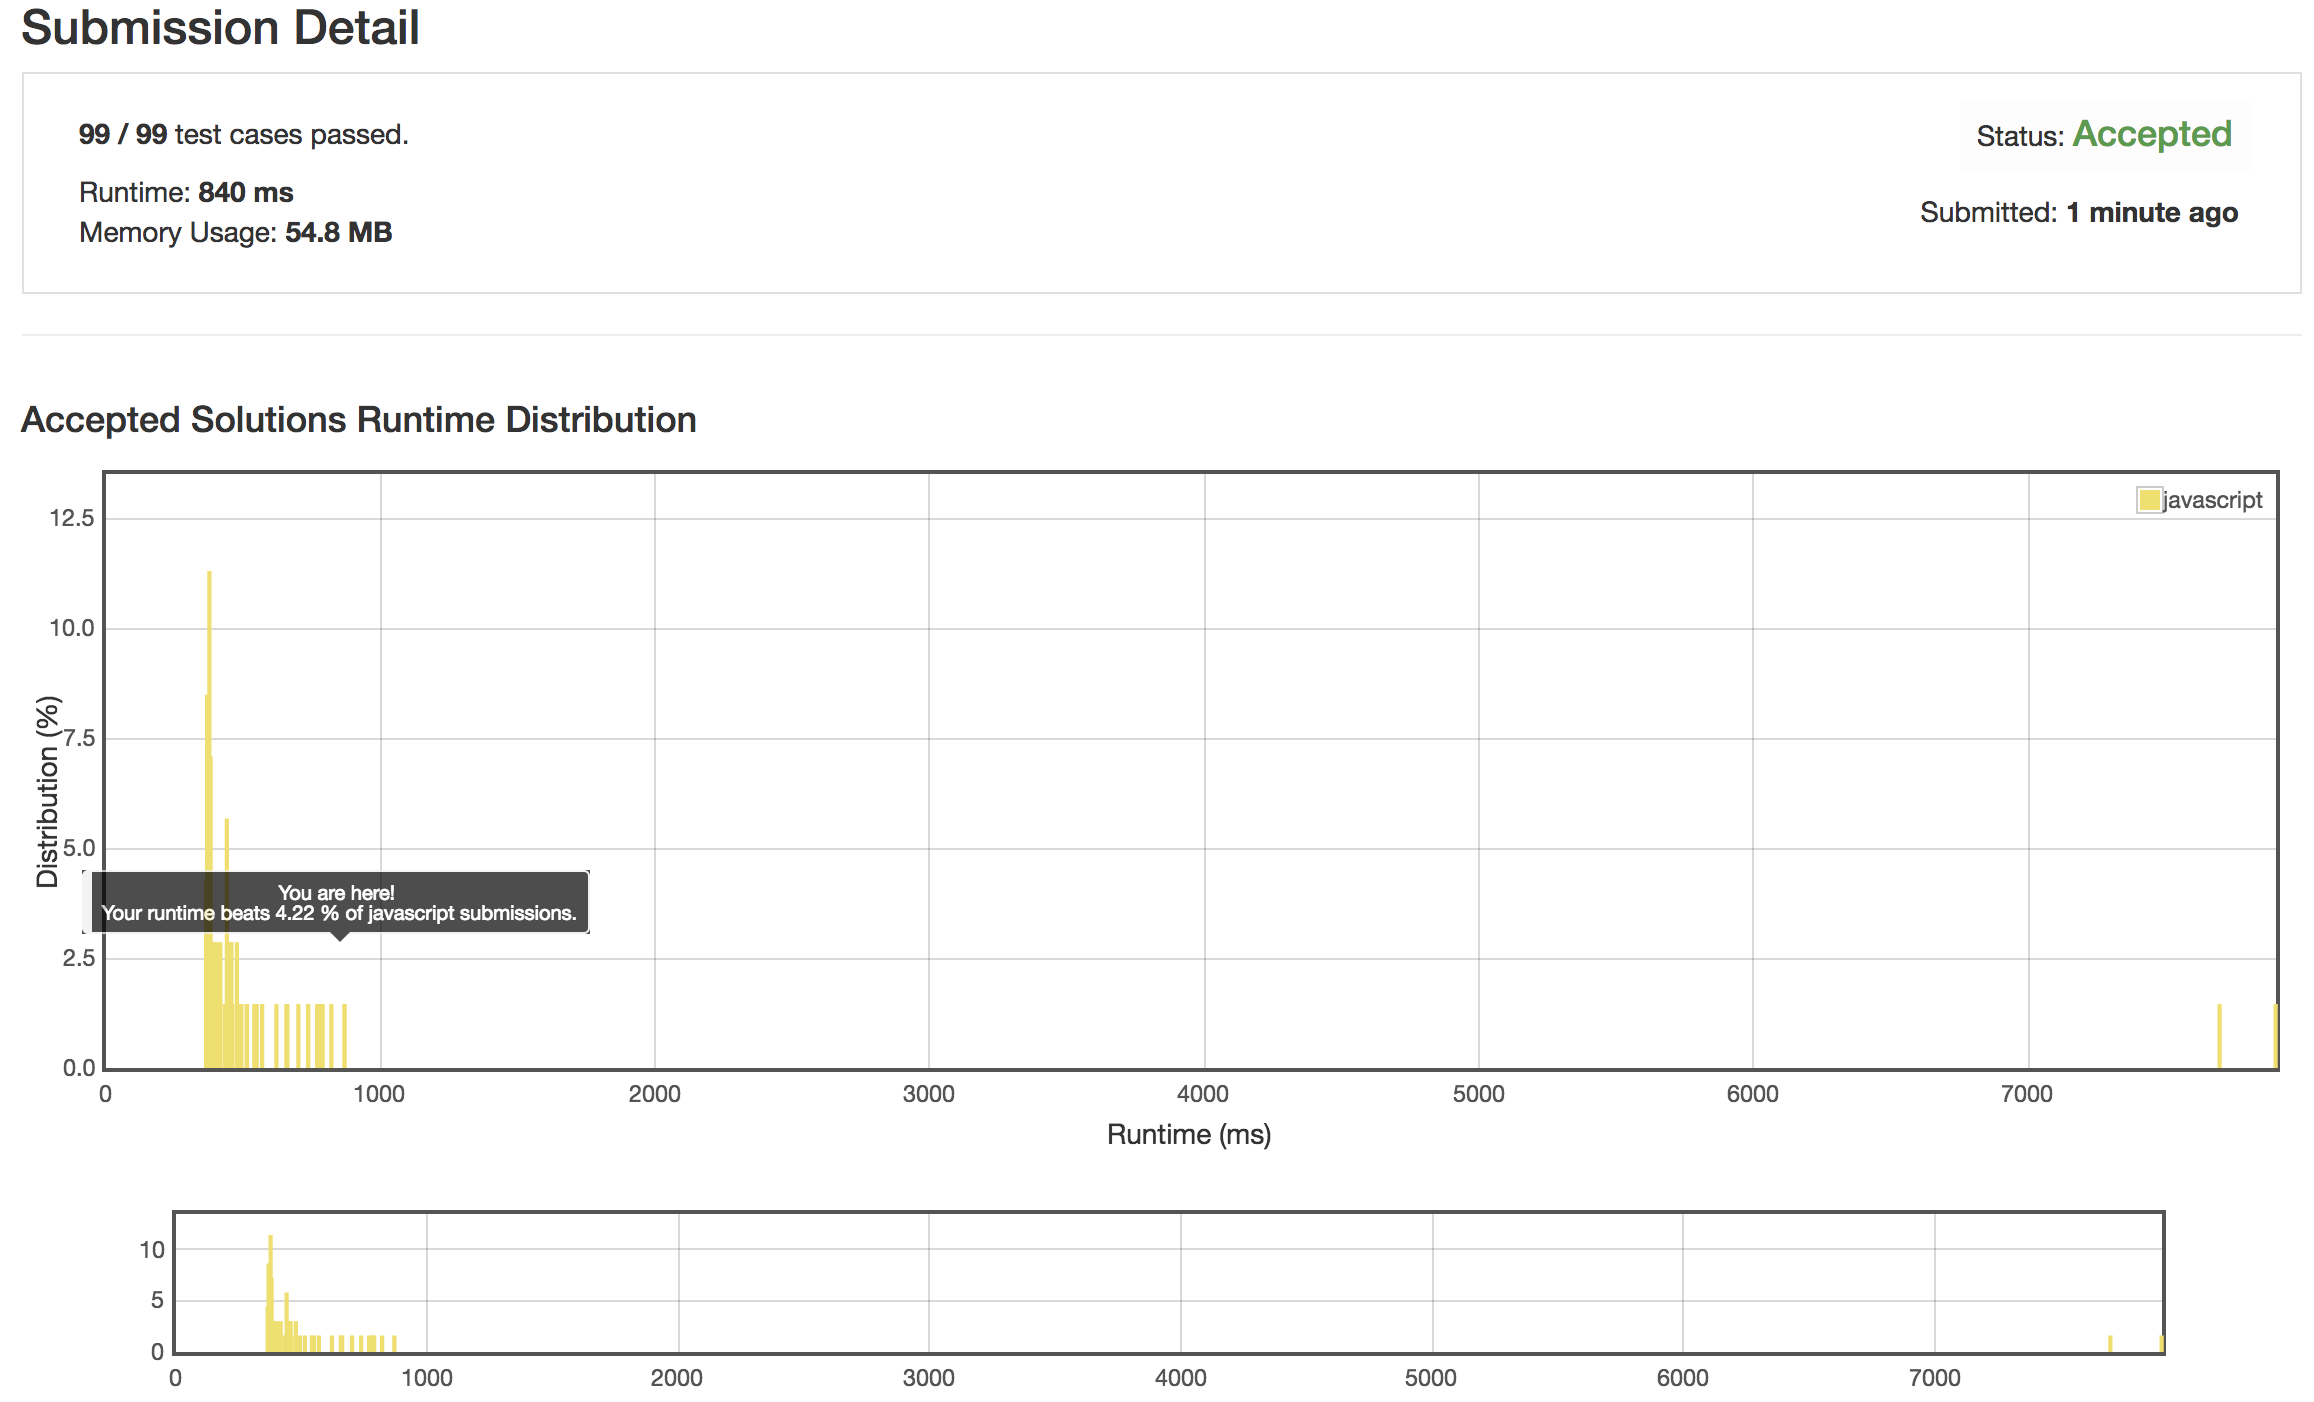
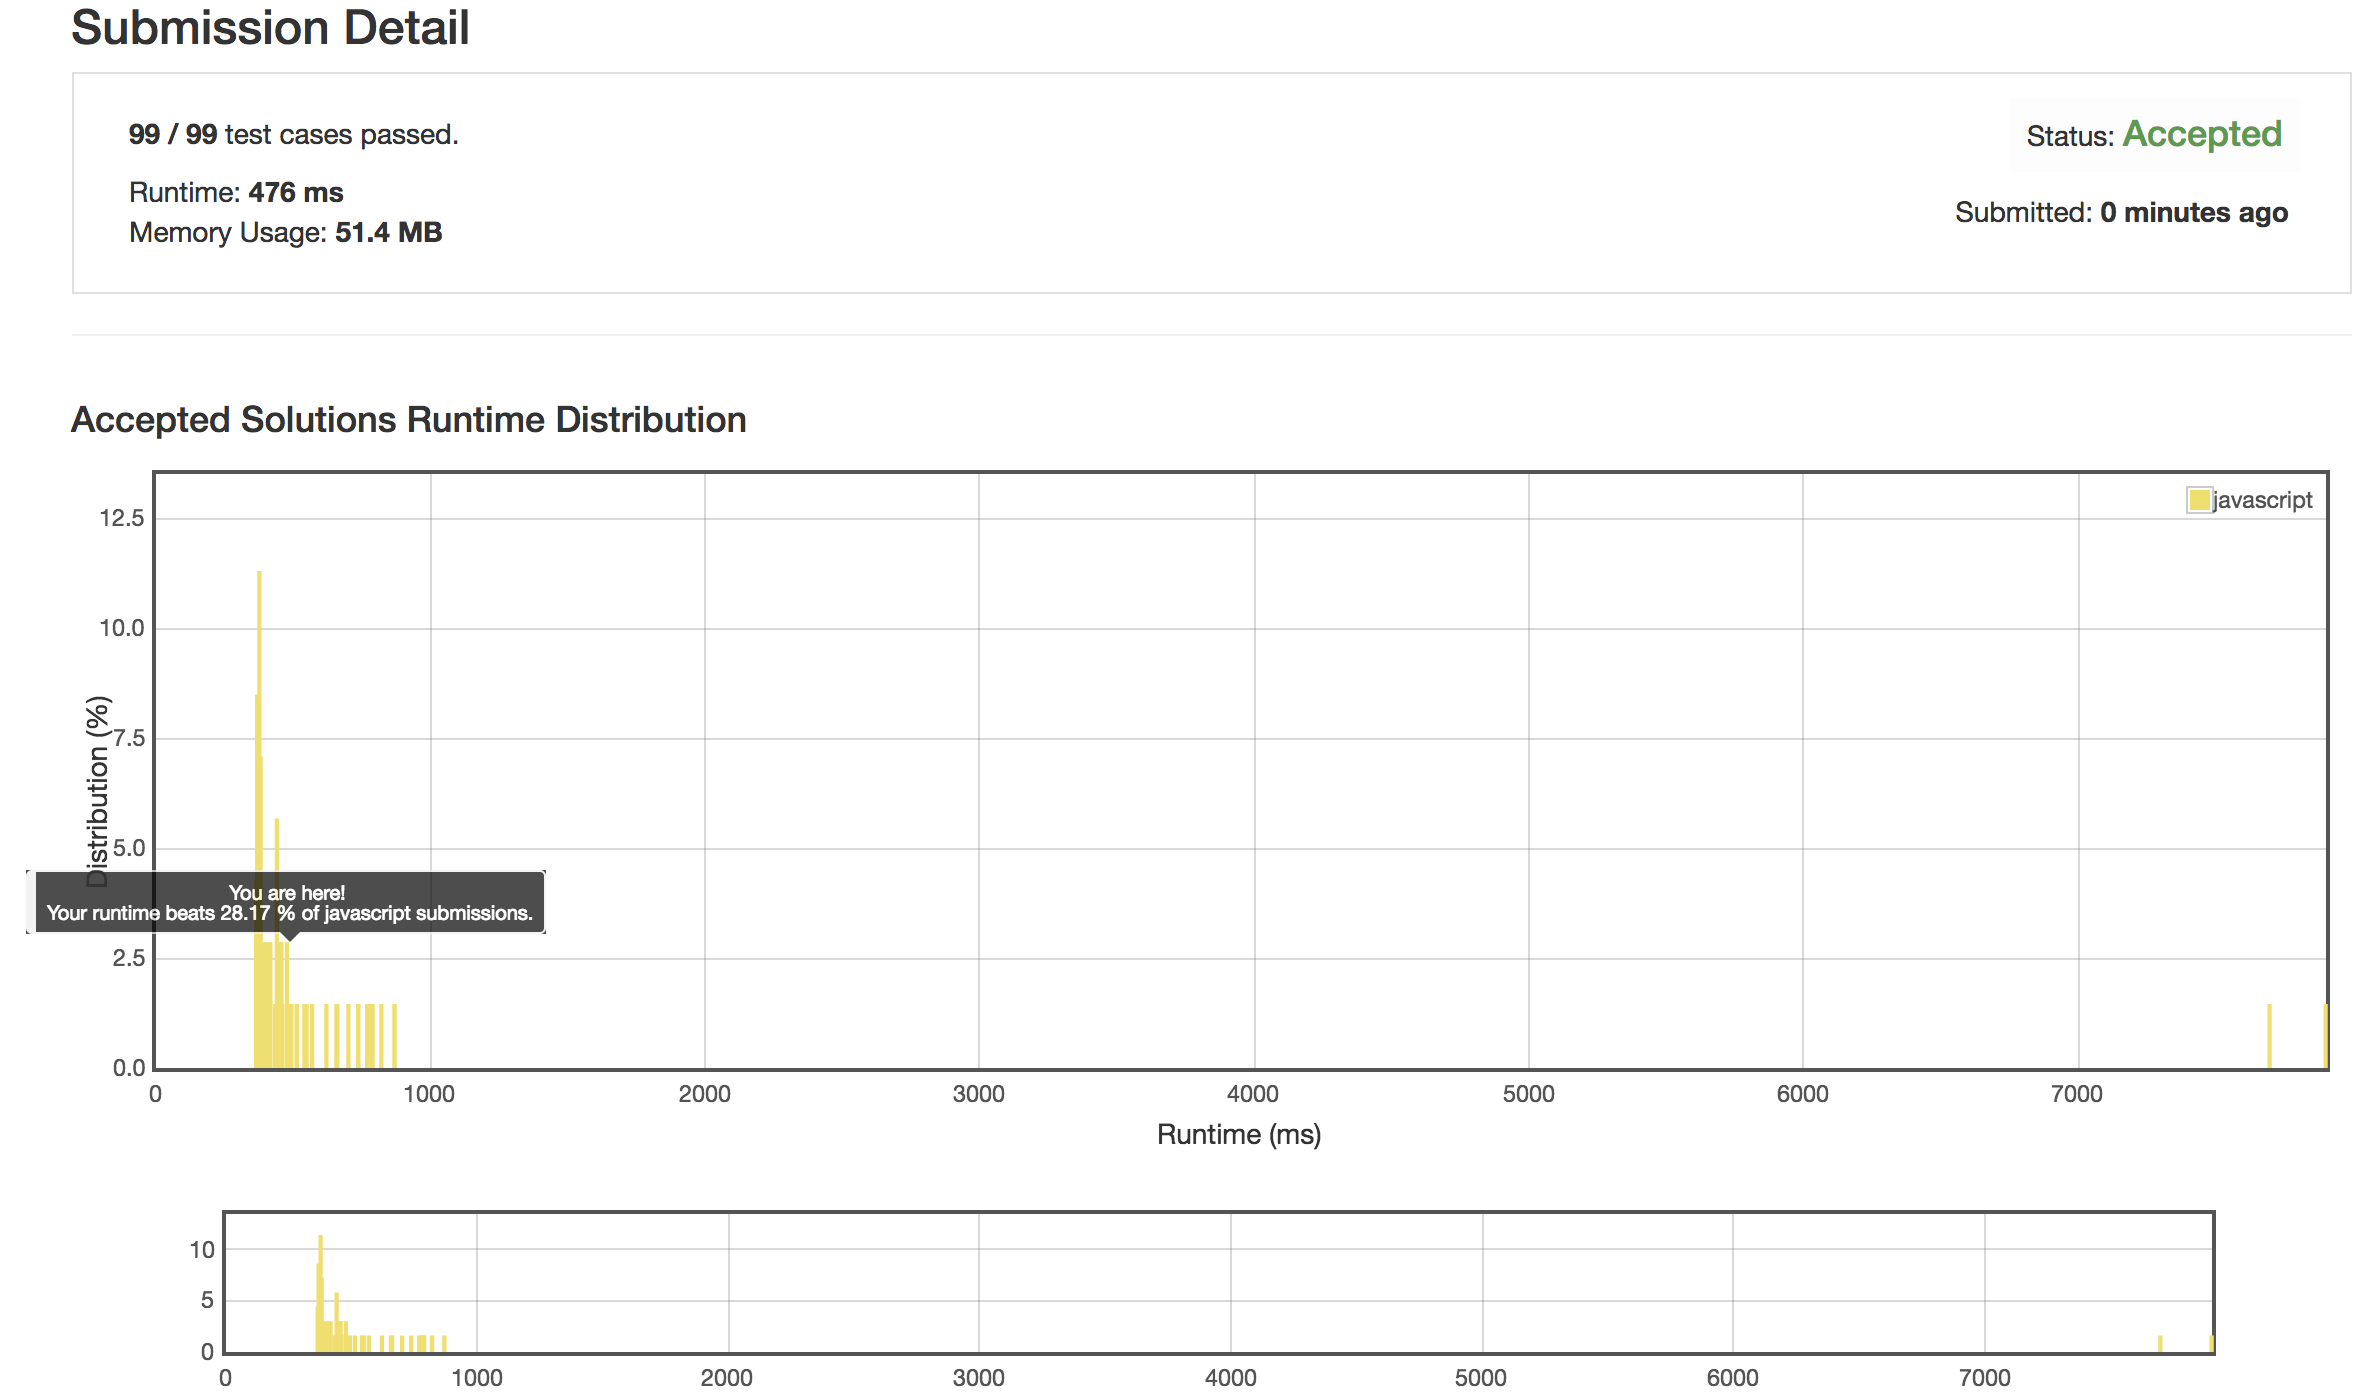
UPDATE stack logic to improve runtime complexity

diff --git a/medium/online-stock-span/onlineStockSpan.js b/medium/online-stock-span/onlineStockSpan.js
@@ -1,7 +1,7 @@
 
 var StockSpanner = function() {
     this.history = [];
-    this.day = -1;
+    this.day = 0;
 };
 
 /** 
@@ -9,14 +9,29 @@ var StockSpanner = function() {
  * @return {number}
  */
 StockSpanner.prototype.next = function(price) {
-    let res = 1;
-    
-    for (let i = this.day; i >= 0 && this.history[i] <= price; i--) {
-        res++;
-    }
+    let res;
     
     this.day++;
-    this.history[this.day] = price;
+    if (this.history.length > 0) {
+        let curr;
+        do {
+            curr = this.history.pop();
+        } while (this.history.length > 0 && curr.price <= price);
+        
+        if (curr.price > price) {
+            // There's a highest price before
+            this.history.push(curr);
+            res = this.day - curr.day;
+        } else {
+            // This is the highest price ever reached
+            res = this.day;
+        }
+    } else {
+        // First price ever added
+        res = 1;
+    }
+        
+    this.history.push({ price: price, day: this.day });
     
     return res;
 };

diff --git a/README.md b/README.md
@@ -39,4 +39,4 @@ So far:
 | [Partition List](medium/partition-list) | Medium | 100% | 41.04% | 6th Feb 2019 |
 | [Remove Linked List Elements](easy/remove-linked-list-elements) | Easy | 100% | 22.13% | 7th Feb 2019 |
 | [Longest Palindrome](easy/longest-palindrome) | Easy | 22.90% | 14.85% | 7th Feb 2019 |
-| [Online Stock Span](medium/online-stock-span) | Medium | 4.22% | 50% | 9th Feb 2019 |
+| [Online Stock Span](medium/online-stock-span) | Medium | 25.35% | 100% | 9th Feb 2019 |
